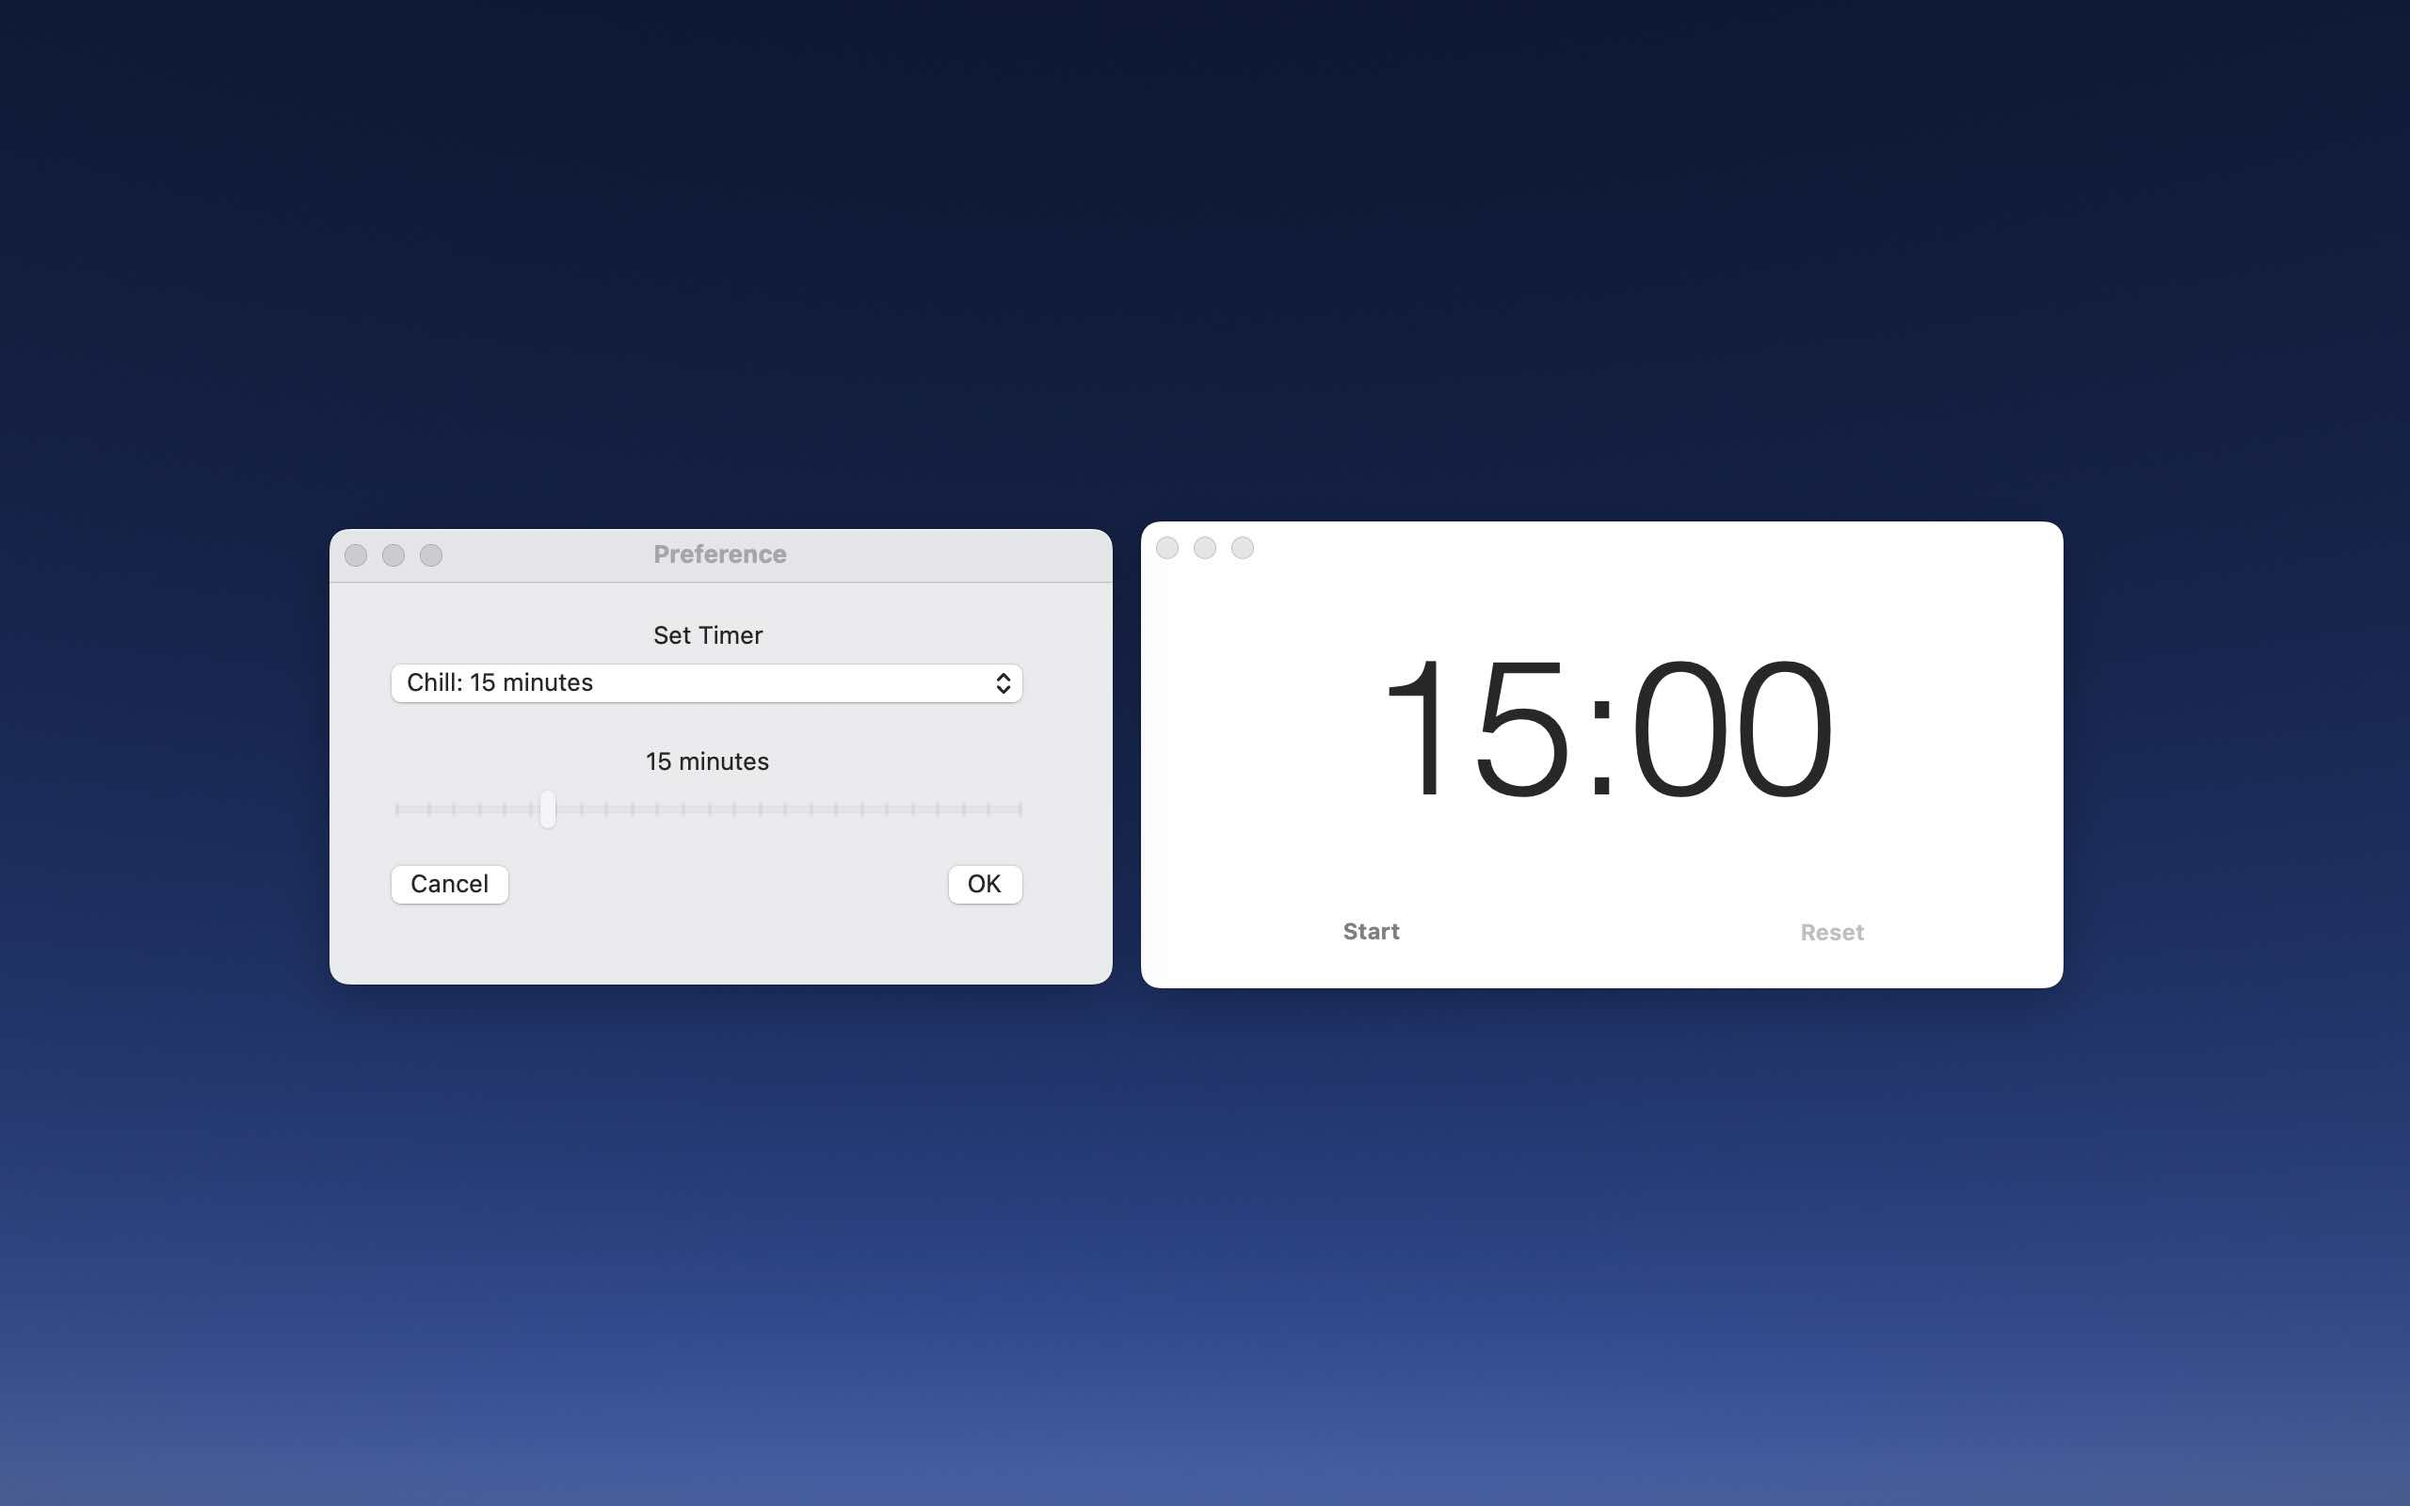
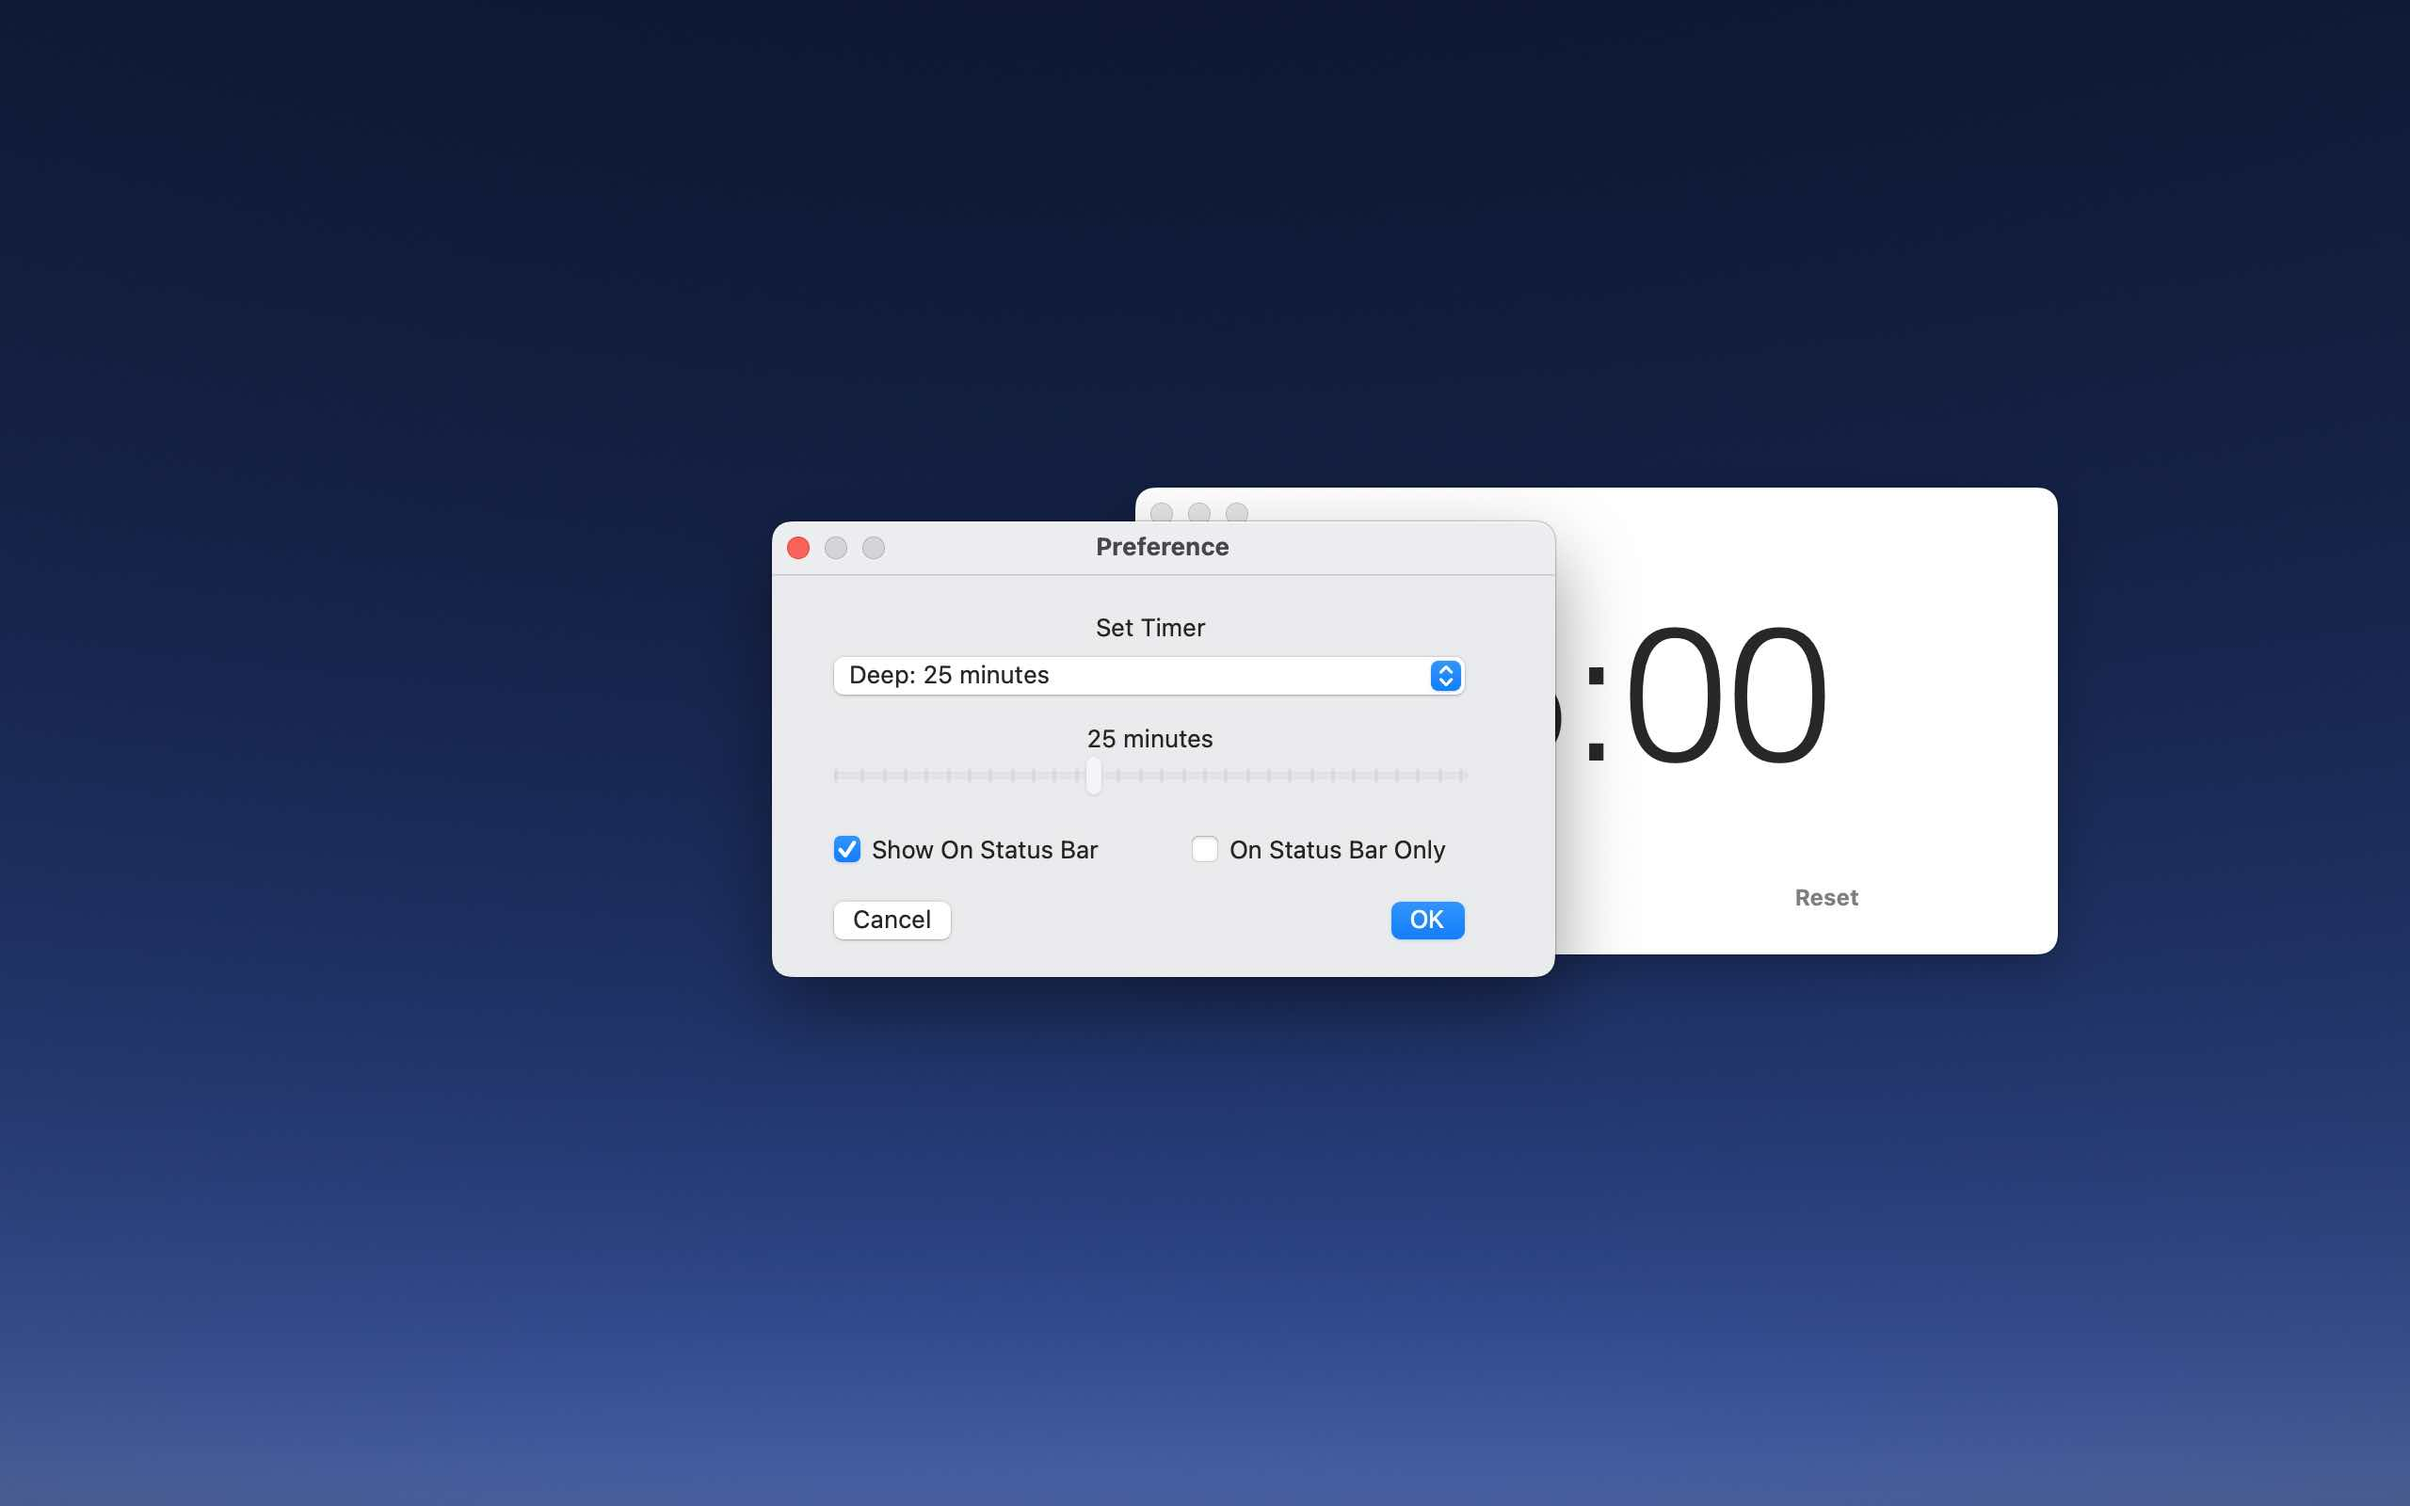
statusbar related

Changed region(s): [[0.125, 0.3125, 0.875, 0.6562]]

diff --git a/justtimer.html b/justtimer.html
@@ -40,5 +40,10 @@ Click the "reset" button, or press the enter key, to reset the timer
 In the menu bar, click JustTimer -> Preference, to customize your countdown timer.
 <p><img alt="Mountain View" src="pics/pref.jpg" style="width:600px;height:400px;" /></p>
 
+You can select "show on status bar", to show a tiny hourglass on the status bar on the top of your screen.<br>
+You can also select "on status bar only", to close the timer window and use only the hourglass on the status bar.<br>
+Note that the "space" and "enter" key also apply to the status bar hourglass when you activate JustTimer.
+<p><img alt="Mountain View" src="pics/statusbar.jpg" style="width:600px;height:400px;" /></p>
+
 </body>
 </html>
